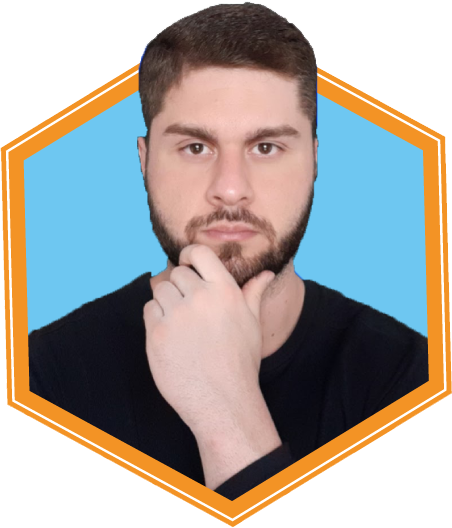
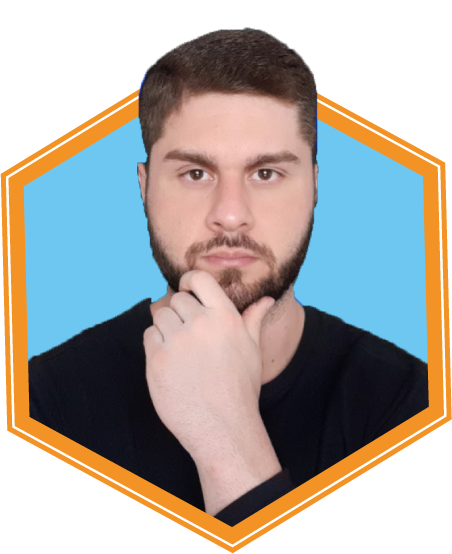
Infoprodutores

Changed region(s): [[0.0, 0.0, 1.0, 1.0], [0.3407, 0.7273, 0.4336, 0.8485], [0.3097, 0.6667, 0.3407, 0.7273]]

diff --git a/style/styles.css b/style/styles.css
@@ -273,7 +273,7 @@ body
 .influencer-foto-2 {
   width: 50%;
   height: 40%;
-  margin-left: -15px;
+  margin-left: 1px;
 }
 
 
@@ -1164,7 +1164,7 @@ body
 .influencer-foto-2 {
   width: 50%;
   height: 28%;
-  margin-left: -15px;
+  margin-left: 1px;
 }
 
 .influencer-foto-3 {
@@ -1435,7 +1435,7 @@ body
 .influencer-foto-2 {
   width: 50%;
   height: 28%;
-  margin-left: -15px;
+  margin-left: 1px;
 }
 
 .influencer-foto-3 {
@@ -1759,7 +1759,7 @@ body
 .influencer-foto-2 {
   width: 50%;
   height: 28%;
-  margin-left: -15px;
+  margin-left: 1px;
 }
 
 .influencer-foto-3 {
